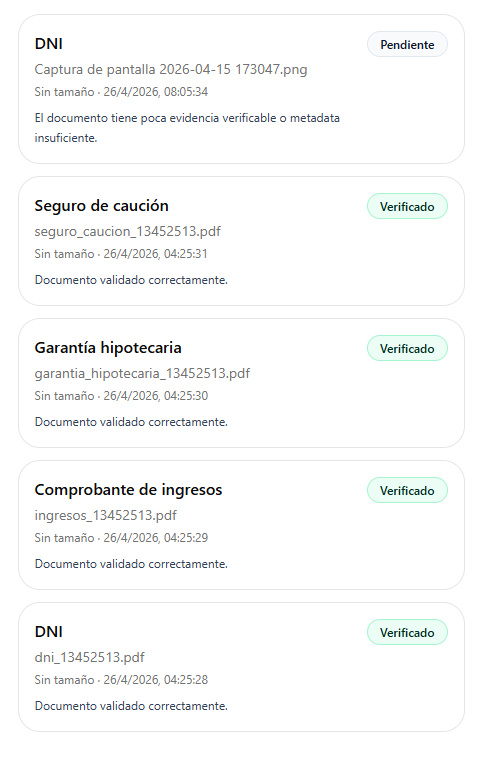
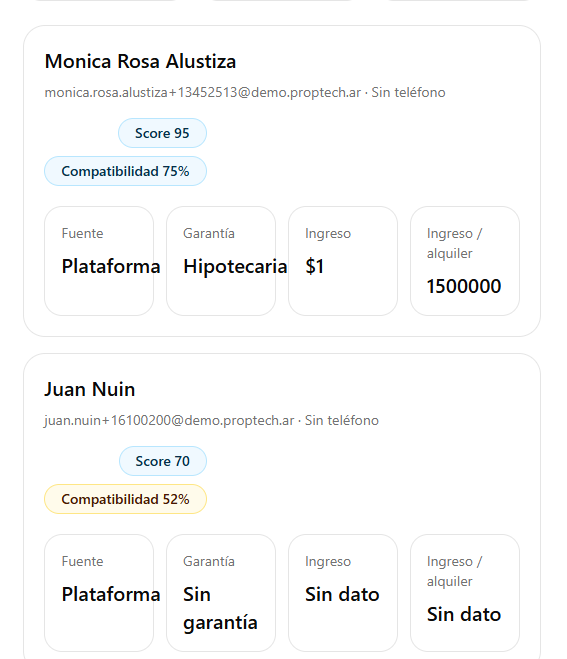
fix card dashboard

diff --git a/src/components/agency/candidates-manager.tsx b/src/components/agency/candidates-manager.tsx
@@ -76,6 +76,31 @@ function getGuaranteeLabel(value: CandidateRecord["guaranteeType"]) {
   }
 }
 
+function formatIncome(value: number | null) {
+  if (!value) return "Sin dato";
+  return new Intl.NumberFormat("es-AR", {
+    style: "currency",
+    currency: "ARS",
+    maximumFractionDigits: 0,
+  }).format(value);
+}
+
+function formatRatio(value: number | null) {
+  if (value === null) return { label: "Sin dato", tone: "neutral" as const };
+  const pct = Math.round(value * 100);
+  if (pct <= 35) return { label: `${pct}% ✓`, tone: "success" as const };
+  if (pct <= 50) return { label: `${pct}%`, tone: "warning" as const };
+  return { label: `${pct}%`, tone: "danger" as const };
+}
+
+function truncateEmail(email: string) {
+  if (email.length <= 32) return email;
+  const [local, domain] = email.split("@");
+  if (!domain) return email;
+  const shortLocal = local && local.length > 12 ? local.slice(0, 12) + "…" : local;
+  return `${shortLocal}@${domain}`;
+}
+
 export function CandidatesManager({
   property,
   candidacies,
@@ -192,10 +217,10 @@ export function CandidatesManager({
                   <div>
                     <h2 className="text-xl font-semibold">{getCandidateName(candidate)}</h2>
                     <p className="text-muted-foreground mt-2 text-sm">
-                      {getCandidateEmail(candidate)} · {getCandidatePhone(candidate)}
+                      {truncateEmail(getCandidateEmail(candidate))} · {getCandidatePhone(candidate)}
                     </p>
                   </div>
-                  <div className="flex flex-col items-end gap-2">
+                  <div className="flex flex-wrap items-center gap-2">
                     <StatusPill tone="info" className="px-4 py-1 text-sm">
                       Score {candidate.scoreAtSubmission}
                     </StatusPill>
@@ -208,21 +233,27 @@ export function CandidatesManager({
                   </div>
                 </div>
 
-                <div className="mt-5 grid gap-3 text-sm md:grid-cols-4">
+                <div className="mt-4 grid grid-cols-2 gap-3 text-sm md:grid-cols-4">
                   <StatCard label="Fuente" value={getSourceLabel(candidate.source)} />
                   <StatCard label="Garantía" value={getGuaranteeLabel(candidate.guaranteeType)} />
-                  <StatCard
-                    label="Ingreso"
-                    value={
-                      candidate.monthlyIncome
-                        ? `$${candidate.monthlyIncome.toLocaleString("es-AR")}`
-                        : "Sin dato"
-                    }
-                  />
-                  <StatCard
-                    label="Ingreso / alquiler"
-                    value={candidate.rentToIncomeRatio ?? "Sin dato"}
-                  />
+                  <StatCard label="Ingreso mensual" value={formatIncome(candidate.monthlyIncome)} />
+                  {(() => {
+                    const ratio = formatRatio(candidate.rentToIncomeRatio);
+                    return (
+                      <div className="rounded-2xl border p-4">
+                        <p className="text-muted-foreground text-sm">Alquiler / ingreso</p>
+                        <p
+                          className={cn("mt-2 text-xl font-semibold", {
+                            "text-emerald-700": ratio.tone === "success",
+                            "text-amber-700": ratio.tone === "warning",
+                            "text-rose-700": ratio.tone === "danger",
+                          })}
+                        >
+                          {ratio.label}
+                        </p>
+                      </div>
+                    );
+                  })()}
                 </div>
               </li>
             ))
